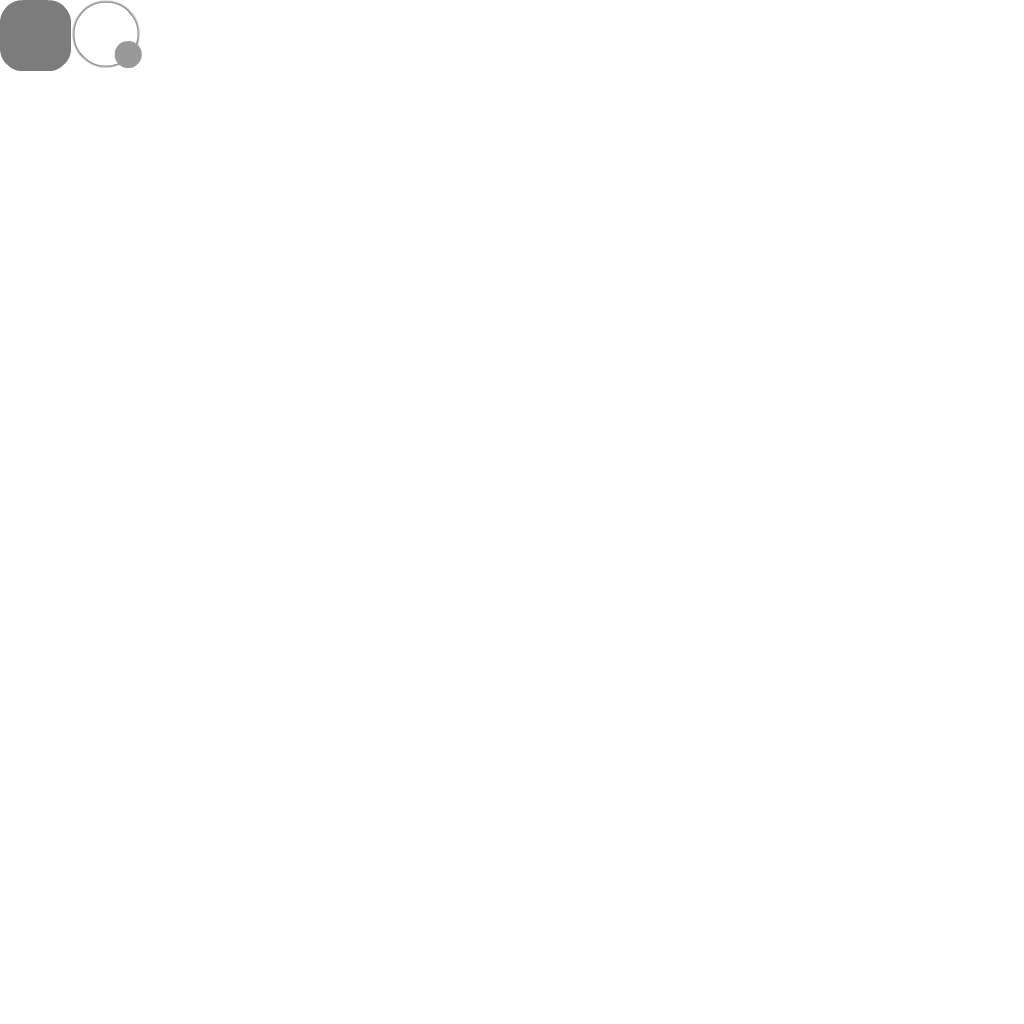
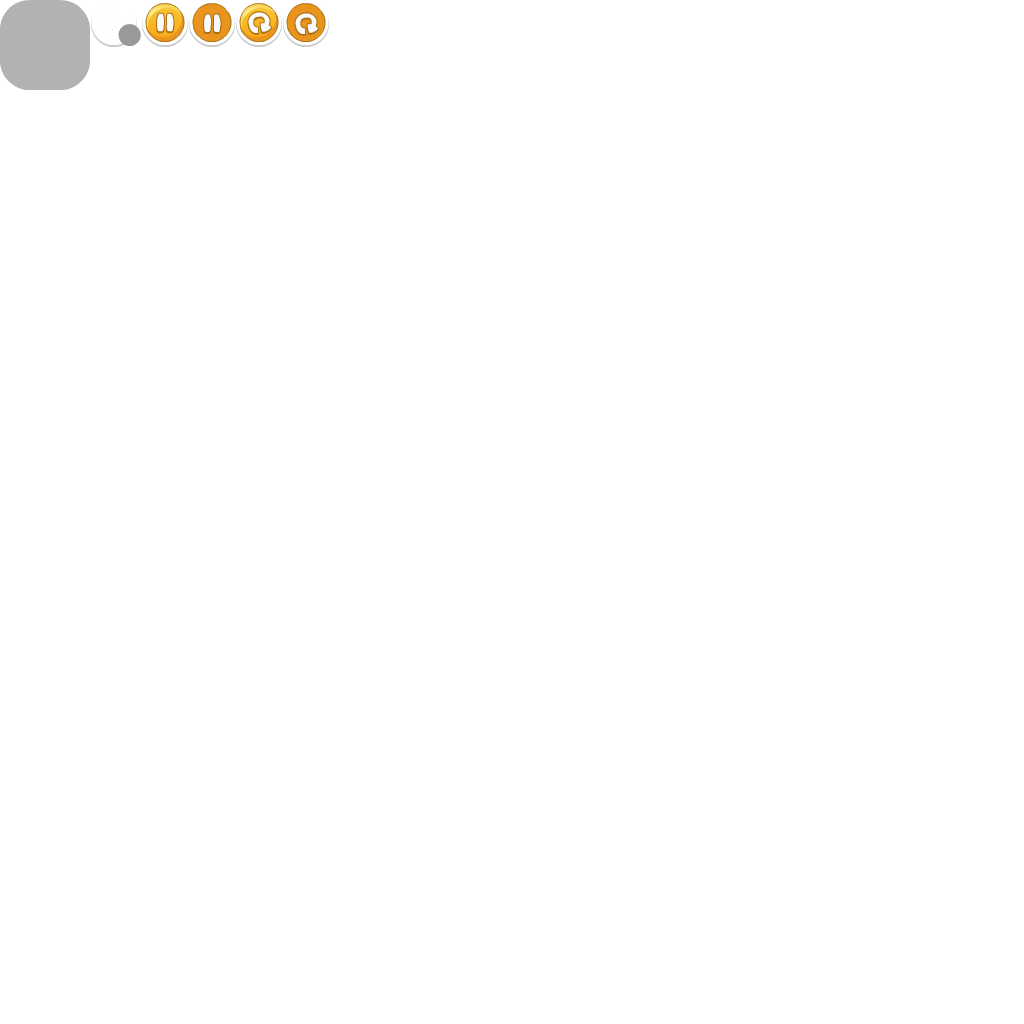
UI fixes.

Changed region(s): [[0.0, 0.0, 0.3438, 0.0938]]

diff --git a/Classes/Views/LevelScene.cpp b/Classes/Views/LevelScene.cpp
@@ -14,7 +14,8 @@ LevelScene::LevelScene(ChipsChallengeGame* game, size_t packIndex, size_t levelI
 {
     auto director = cocos2d::Director::getInstance();
 	auto winSize = director->getWinSize();
-    
+	cocos2d::Rect screenBounds(director->getVisibleOrigin(), director->getVisibleSize());
+
     _game = game;
     _game->retain();
     
@@ -38,12 +39,12 @@ LevelScene::LevelScene(ChipsChallengeGame* game, size_t packIndex, size_t levelI
     
 	_inventoryPanel = InventoryPanel::create(_level->getInventory());
 	_inventoryPanel->setAnchorPoint(cocos2d::Vec2(0.5f, 0));
-	_inventoryPanel->setPosition(cocos2d::Vec2(0.5f * winSize.width, 8));
+	_inventoryPanel->setPosition(screenBounds.origin + cocos2d::Vec2(0.5f * screenBounds.size.width, 8));
 	uiLayer->addChild(_inventoryPanel);
     
-    auto menuButton = cocos2d::ui::Button::create("ui-inventory-cell.png", "", "", cocos2d::ui::Widget::TextureResType::PLIST);
+    auto menuButton = cocos2d::ui::Button::create("ui-button-pause.png", "ui-button-pause-on.png", "", cocos2d::ui::Widget::TextureResType::PLIST);
     menuButton->setAnchorPoint(cocos2d::Vec2(0.5f, 0.5f));
-    menuButton->setPosition(cocos2d::Vec2(winSize) + cocos2d::Vec2(-50, -50));
+	menuButton->setPosition(screenBounds.origin + screenBounds.size + cocos2d::Vec2(-31, -32));
     menuButton->addTouchEventListener([this](cocos2d::Ref* sender, cocos2d::ui::Widget::TouchEventType type)
     {
         if (type == cocos2d::ui::Widget::TouchEventType::ENDED)
@@ -54,9 +55,9 @@ LevelScene::LevelScene(ChipsChallengeGame* game, size_t packIndex, size_t levelI
     });
     uiLayer->addChild(menuButton);
     
-    auto restartButton = cocos2d::ui::Button::create("ui-inventory-cell.png", "", "", cocos2d::ui::Widget::TextureResType::PLIST);
+	auto restartButton = cocos2d::ui::Button::create("ui-button-restart.png", "ui-button-restart-on.png", "", cocos2d::ui::Widget::TextureResType::PLIST);
     restartButton->setAnchorPoint(cocos2d::Vec2(0.5f, 0.5f));
-    restartButton->setPosition(cocos2d::Vec2(winSize) + cocos2d::Vec2(-150, -50));
+	restartButton->setPosition(screenBounds.origin + screenBounds.size + cocos2d::Vec2(-85, -32));
     restartButton->addTouchEventListener([this](cocos2d::Ref* sender, cocos2d::ui::Widget::TouchEventType type)
     {
         if (type == cocos2d::ui::Widget::TouchEventType::ENDED)
@@ -66,9 +67,6 @@ LevelScene::LevelScene(ChipsChallengeGame* game, size_t packIndex, size_t levelI
     });
     uiLayer->addChild(restartButton);
 
-    _topLayer = cocos2d::Node::create();
-    addChild(_topLayer);
-    
     _preloaderLayer = cocos2d::LayerColor::create(cocos2d::Color4B(128, 192, 255, 255), winSize.width, winSize.height);
     _preloaderLayer->setAnchorPoint(cocos2d::Vec2::ZERO);
     _preloaderLayer->setPosition(cocos2d::Vec2::ZERO);
@@ -79,6 +77,9 @@ LevelScene::LevelScene(ChipsChallengeGame* game, size_t packIndex, size_t levelI
     _fadeLayer->setPosition(cocos2d::Vec2::ZERO);
     _fadeLayer->setVisible(false);
     addChild(_fadeLayer);
+
+	_topLayer = cocos2d::Node::create();
+	addChild(_topLayer);
     
     _level->makeTurn(0);
     director->getScheduler()->schedule(CC_SCHEDULE_SELECTOR(Level::makeTurn), _level, _level->getTurnDuration(), CC_REPEAT_FOREVER, 0, false);
@@ -150,10 +151,10 @@ void LevelScene::onLevelFail(const std::string& message)
 {
     cocos2d::Size winSize = cocos2d::Director::getInstance()->getWinSize();
     
-    auto messageLabel = cocos2d::Label::createWithTTF(message, "fonts/Marker Felt.ttf", 24, cocos2d::Size(512, 0), cocos2d::TextHAlignment::CENTER);
+    auto messageLabel = cocos2d::Label::createWithTTF(message, "fonts/Marker Felt.ttf", 24, cocos2d::Size(460, 0), cocos2d::TextHAlignment::CENTER);
     
-    auto messagePanel = cocos2d::ui::Scale9Sprite::createWithSpriteFrameName("ui-panel-black-transparent.png");
-    messagePanel->setContentSize(cocos2d::Size(360, messageLabel->getContentSize().height + 46));
+    auto messagePanel = cocos2d::ui::Scale9Sprite::createWithSpriteFrameName("ui-panel-transparent.png");
+    messagePanel->setContentSize(cocos2d::Size(512, messageLabel->getContentSize().height + 46));
     messagePanel->setPosition(cocos2d::Vec2(winSize) * 0.5f);
     messagePanel->setOpacity(0);
     messagePanel->runAction(cocos2d::Sequence::create(
@@ -271,7 +272,7 @@ void LevelScene::_onLevelStart()
     auto titleLabel = cocos2d::Label::createWithTTF(_level->getConfig()->getTitle(), "fonts/Marker Felt.ttf", 24, cocos2d::Size(314, 0), cocos2d::TextHAlignment::CENTER);
 	titleLabel->enableOutline(cocos2d::Color4B::BLACK, 1);
 
-    auto titlePanel = cocos2d::ui::Scale9Sprite::createWithSpriteFrameName("ui-panel-black-transparent.png");
+    auto titlePanel = cocos2d::ui::Scale9Sprite::createWithSpriteFrameName("ui-panel-transparent.png");
     titlePanel->setContentSize(cocos2d::Size(360, titleLabel->getContentSize().height + 46));
     titlePanel->setPosition(cocos2d::Vec2(winSize) * 0.5f);
     

diff --git a/Classes/Views/LevelScene/InventoryPanel.cpp b/Classes/Views/LevelScene/InventoryPanel.cpp
@@ -34,21 +34,21 @@ InventoryPanel::~InventoryPanel()
 
 void InventoryPanel::_build()
 {
-	cocos2d::Size cellSize(70, 68);
+	cocos2d::Size cellSize(54, 48);
 
-	setContentSize(cocos2d::Size(cellSize.width * 8 + 8, cellSize.height + 8));
+	setContentSize(cocos2d::Size(cellSize.width * 8 + 8, cellSize.height + 16));
 
-	_background = cocos2d::ui::Scale9Sprite::createWithSpriteFrameName("ui-panel-black-transparent.png");
+	_background = cocos2d::ui::Scale9Sprite::createWithSpriteFrameName("ui-panel-transparent.png");
 	_background->setContentSize(getContentSize());
 	_background->setAnchorPoint(cocos2d::Vec2::ZERO);
 	addChild(_background);
 
-	float x = 4;
+	float x = 8;
 	for (size_t i = 0; i < 8; i++)
 	{
 		auto cell = cocos2d::Sprite::createWithSpriteFrameName("ui-inventory-cell.png");
 		cell->setAnchorPoint(cocos2d::Vec2::ZERO);
-		cell->setPosition(cocos2d::Vec2(x, 4));
+		cell->setPosition(cocos2d::Vec2(x, 8));
 		_background->addChild(cell);
 
 		x += cellSize.width;
